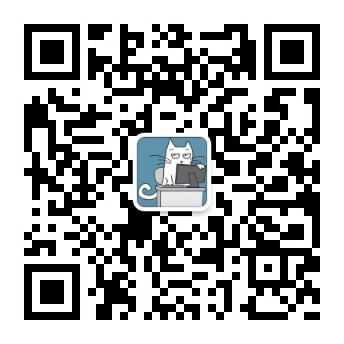
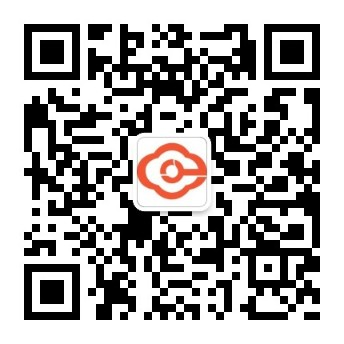
Site updated: 2022-04-20 15:34:50

Changed region(s): [[0.3779, 0.3779, 0.6105, 0.6105]]

diff --git a/2022/04/16/还不会搭建博客吗？centos7系统部署hexo博客新手入门-进阶，看这一篇就够了/index.html b/2022/04/16/还不会搭建博客吗？centos7系统部署hexo博客新手入门-进阶，看这一篇就够了/index.html
@@ -76,7 +76,7 @@
 <div class="intrude-less">
 	<header id="header" class="inner">
 		<a href="/" class="profilepic">
-			<img src="/img/head.jpg" class="js-avatar">
+			<img src="/img/%E4%BA%91%E6%95%88.png" class="js-avatar">
 		</a>
 		<hgroup>
 			<h1 class="header-author"><a href="/">小叶的技术Logs</a></h1>
@@ -155,7 +155,7 @@
 		<header id="header" class="inner">
 			<div class="profilepic">
 				<a href="/">
-					<img src="/img/head.jpg" class="js-avatar">
+					<img src="/img/%E4%BA%91%E6%95%88.png" class="js-avatar">
 				</a>
 			</div>
 			<hgroup>

diff --git a/2022/04/17/没接触过kubevirt？15分钟快速入门kubevirt/index.html b/2022/04/17/没接触过kubevirt？15分钟快速入门kubevirt/index.html
@@ -67,7 +67,7 @@
 <div class="intrude-less">
 	<header id="header" class="inner">
 		<a href="/" class="profilepic">
-			<img src="/img/head.jpg" class="js-avatar">
+			<img src="/img/%E4%BA%91%E6%95%88.png" class="js-avatar">
 		</a>
 		<hgroup>
 			<h1 class="header-author"><a href="/">小叶的技术Logs</a></h1>
@@ -146,7 +146,7 @@
 		<header id="header" class="inner">
 			<div class="profilepic">
 				<a href="/">
-					<img src="/img/head.jpg" class="js-avatar">
+					<img src="/img/%E4%BA%91%E6%95%88.png" class="js-avatar">
 				</a>
 			</div>
 			<hgroup>

diff --git a/2022/04/20/代理是什么？nginx快速入门-反向代理hexo个人博客/index.html b/2022/04/20/代理是什么？nginx快速入门-反向代理hexo个人博客/index.html
@@ -69,7 +69,7 @@
 <div class="intrude-less">
 	<header id="header" class="inner">
 		<a href="/" class="profilepic">
-			<img src="/img/head.jpg" class="js-avatar">
+			<img src="/img/%E4%BA%91%E6%95%88.png" class="js-avatar">
 		</a>
 		<hgroup>
 			<h1 class="header-author"><a href="/">小叶的技术Logs</a></h1>
@@ -148,7 +148,7 @@
 		<header id="header" class="inner">
 			<div class="profilepic">
 				<a href="/">
-					<img src="/img/head.jpg" class="js-avatar">
+					<img src="/img/%E4%BA%91%E6%95%88.png" class="js-avatar">
 				</a>
 			</div>
 			<hgroup>

diff --git a/archives/2022/04/index.html b/archives/2022/04/index.html
@@ -59,7 +59,7 @@
 <div class="intrude-less">
 	<header id="header" class="inner">
 		<a href="/" class="profilepic">
-			<img src="/img/head.jpg" class="js-avatar">
+			<img src="/img/%E4%BA%91%E6%95%88.png" class="js-avatar">
 		</a>
 		<hgroup>
 			<h1 class="header-author"><a href="/">小叶的技术Logs</a></h1>
@@ -138,7 +138,7 @@
 		<header id="header" class="inner">
 			<div class="profilepic">
 				<a href="/">
-					<img src="/img/head.jpg" class="js-avatar">
+					<img src="/img/%E4%BA%91%E6%95%88.png" class="js-avatar">
 				</a>
 			</div>
 			<hgroup>

diff --git a/archives/2022/index.html b/archives/2022/index.html
@@ -59,7 +59,7 @@
 <div class="intrude-less">
 	<header id="header" class="inner">
 		<a href="/" class="profilepic">
-			<img src="/img/head.jpg" class="js-avatar">
+			<img src="/img/%E4%BA%91%E6%95%88.png" class="js-avatar">
 		</a>
 		<hgroup>
 			<h1 class="header-author"><a href="/">小叶的技术Logs</a></h1>
@@ -138,7 +138,7 @@
 		<header id="header" class="inner">
 			<div class="profilepic">
 				<a href="/">
-					<img src="/img/head.jpg" class="js-avatar">
+					<img src="/img/%E4%BA%91%E6%95%88.png" class="js-avatar">
 				</a>
 			</div>
 			<hgroup>

diff --git a/archives/index.html b/archives/index.html
@@ -59,7 +59,7 @@
 <div class="intrude-less">
 	<header id="header" class="inner">
 		<a href="/" class="profilepic">
-			<img src="/img/head.jpg" class="js-avatar">
+			<img src="/img/%E4%BA%91%E6%95%88.png" class="js-avatar">
 		</a>
 		<hgroup>
 			<h1 class="header-author"><a href="/">小叶的技术Logs</a></h1>
@@ -138,7 +138,7 @@
 		<header id="header" class="inner">
 			<div class="profilepic">
 				<a href="/">
-					<img src="/img/head.jpg" class="js-avatar">
+					<img src="/img/%E4%BA%91%E6%95%88.png" class="js-avatar">
 				</a>
 			</div>
 			<hgroup>

diff --git a/index.html b/index.html
@@ -63,7 +63,7 @@
 <div class="intrude-less">
 	<header id="header" class="inner">
 		<a href="/" class="profilepic">
-			<img src="/img/head.jpg" class="js-avatar">
+			<img src="/img/%E4%BA%91%E6%95%88.png" class="js-avatar">
 		</a>
 		<hgroup>
 			<h1 class="header-author"><a href="/">小叶的技术Logs</a></h1>
@@ -142,7 +142,7 @@
 		<header id="header" class="inner">
 			<div class="profilepic">
 				<a href="/">
-					<img src="/img/head.jpg" class="js-avatar">
+					<img src="/img/%E4%BA%91%E6%95%88.png" class="js-avatar">
 				</a>
 			</div>
 			<hgroup>
